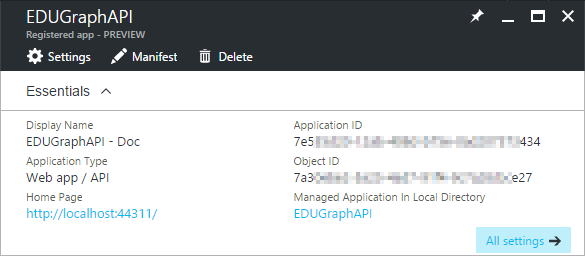
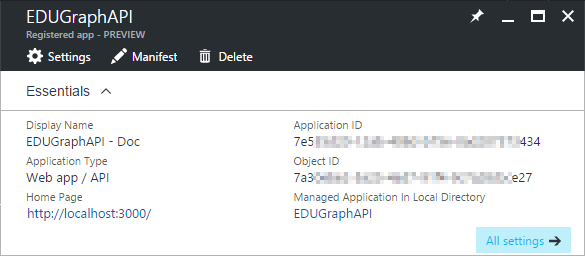
Update README

Changed region(s): [[0.0308, 0.8125, 0.2769, 0.875], [0.4923, 0.8125, 0.6462, 0.875]]

diff --git a/README.md b/README.md
@@ -84,7 +84,7 @@ Create a key to enable Bing Maps API features in the app:
 
 4. Input a **Name**, and select **Web app / API** as **Application Type**.
 
-   Input **Sign-on URL**: http://localhost:44311/
+   Input **Sign-on URL**: http://localhost:3000/
 
    ![](Images/aad-create-app-02.png)
 
@@ -129,6 +129,7 @@ You need to have some prerequisites installed:
 
 - The [Ruby](https://www.ruby-lang.org/en/downloads) language version 2.3 or newer.
 - The [RubyGems](https://rubygems.org/) packaging system, which is installed with Ruby by default. To learn more about RubyGems, please read the [RubyGems Guides](http://guides.rubygems.org/).
+- The [rails](http://rubyonrails.org/) version 5.0.0 or above.
 - A working installation of the [SQLite3 Database](https://www.sqlite.org/).
 
 Run the **EDUGraphAPI**:
@@ -144,10 +145,10 @@ Run the **EDUGraphAPI**:
 
    ```shell
    bundle install
-   rails s -p 44311
+   rails s
    ```
 
-3. Press **F5**. 
+3. Open http://localhost:3000 in a browser.
 
 ## Deploy the sample to Azure
 
@@ -247,7 +248,7 @@ Run the **EDUGraphAPI**:
 
    ![](Images/aad-add-reply-url.png)
 
-   > Note: to debug the sample locally, make sure that http://localhost:44311/ is in the reply URLs.
+   > Note: to debug the sample locally, make sure that http://localhost:3000/ is in the reply URLs.
 
 4. Click **SAVE**.
 
@@ -259,22 +260,9 @@ Run the **EDUGraphAPI**:
 
 ![](Images/solution-component-diagram.png)
 
-The top layer of the solution contains the two parts of the EDUGraphAPI.Web project:
-
-* The server side Node.js app.
-* The client side Angular 2 app.
-
-The bottom layers contain the three data sources.
-
-* The EDUGraphAPI database.
-* Education data exposed by REST APIs.
-* Azure AD data exposed by Graph APIs.
-
 **Authentication Mechanisms**
 
-TODO: [https://github.com/omniauth/omniauth](https://github.com/omniauth/omniauth)
-
-
+[OmniAuth OAuth2](https://github.com/intridea/omniauth-oauth2) and a custom Azure OAuth2 strategy `lib/omniauth/azure_oauth2.rb` are used to enable O365 users login.
 
 **Data Access**
 
@@ -286,13 +274,22 @@ Below are the main tables used in this sample:
 
 | Table                          | Description                              |
 | ------------------------------ | ---------------------------------------- |
-| accounts                       | Contains the user's information: name, email, hashed password...<br>*o365_user_id* and *o365_email* are used to connect the local user with an O365 user. |
+| users                          | Contains the user's information: name, email, hashed password...<br>*o365_user_id* and *o365_email* are used to connect the local user with an O365 user. |
 | user_roles                     | Contains users' role. Three roles are used in this sample: admin, teacher, and student. |
 | organizations                  | A row in this table represents a tenant in AAD.<br>*IsAdminConsented* column records than if the tenant consented by an administrator. |
-| token                          | Contains the users' access/refresh tokens. |
+| token_caches                   | Contains the users' access/refresh tokens. |
 | classroom_seating_arrangements | Contains the classroom seating arrangements. |
 
 You may change the database settings in the **/config/database.yml** file. SQLite is used for the development environment.
+
+**Libs**
+
+In the **lib** folder, there are 2 libs.
+
+| Lib       | Description                              |
+| --------- | ---------------------------------------- |
+| education | Contains EducationService and several model classes. Theyencapsulate education REST APIs. |
+| omniauth  | Contains AzureOauth2 class which implemented Azure OAuth2 strategy for OmniAuth |
 
 **Controllers**
 
@@ -300,24 +297,37 @@ In the **app/controllers** folder, there are 6 controllers:
 
 | Controller            | Description                              |
 | --------------------- | ---------------------------------------- |
-| ApplicationController | The base controller of the other controllers |
-| AccountController     | Contains actions for user to register, login and logout |
-| AdminController       | Contains administrative actions like consent tenant, manage linked accounts. |
+| ApplicationController | The base controller of the other controllers. |
+| AccountController     | Contains actions for user to register, login and logout. |
 | LinkController        | Contains actions used for users to link accounts. |
-| SchoolsController     | Contains actions used to show education data, link schools, classes and class details. |
-|                       |                                          |
+| ManageController      | Contains the about me action.            |
+| AdminController       | Contains administrative actions like consent tenant, manage linked accounts. |
+| SchoolsController     | Contains actions used to show schools data. |
+| ClassesController     | Contains actions used to show classes data. |
 
 **Services**
 
-All the serveries are in the **app:/services** folder: 
+Service classes are in the **app/services** folder. Below are the main services used in the sample:
 
-| Service           | Description                              |
-| ----------------- | ---------------------------------------- |
-| MSGraphClient     | Contains methods used to access MS Graph APIs |
-| SchoolService     | Contains two methods: get/update seating arrangements |
-| TenantService     | Contains methods that operate tenants in the database |
-| TokenCacheService | Contains method used to get and update cache from the database |
-| UserService       | Contains method used to manipulate users in the database |
+| Service             | Description                              |
+| ------------------- | ---------------------------------------- |
+| MSGraphService      | Contains methods used to access MS Graph APIs |
+| AADGraphService     | Contains methods used to access AAD Graph APIs |
+| TokenCacheService   | Contains method used to get and update cache from the database |
+| UserService         | Contains method used to manipulate users in the database |
+| OrganizationService | Contains methods that operate organizations in the database |
+| LinkService         | Contains methods used to link user accounts |
+
+**Action filters**
+
+In the ApplicationController, several action filters were created and used by itself and other controllers.
+
+| Name                       | Type          | Description                              |
+| -------------------------- | ------------- | ---------------------------------------- |
+| require_login              | before_action | Redirects user to login page if the user is not logged in. |
+| admin_only                 | before_action | Only allow admin users to access the protected actions. |
+| linked_users_only          | before_action | Only allow linked users to access the protected actions. |
+| handle_refresh_token_error | around_action | Rescue RefreshTokenError raised by TokenService when refresh token is missing or expired. It will redirect the user to page which explains the reason and instructs the user to re-login. |
 
 **Multi-tenant app**
 
@@ -335,47 +345,50 @@ For more information, see [Build a multi-tenant SaaS web application using Azure
 
 The [Office 365 Education APIs](https://msdn.microsoft.com/office/office365/api/school-rest-operations) return data from any Office 365 tenant which has been synced to the cloud by Microsoft School Data Sync. The APIs provide information about schools, sections, teachers, students, and rosters. The Schools REST API provides access to school entities in Office 365 for Education tenants.
 
-In this sample, the **Microsoft.Education** Class Library project encapsulates the Office 365 Education API. 
+In this sample, the **lib/education** lib encapsulates the Office 365 Education API. 
 
-The **EducationServiceClient** is the core class of the library. It is used to easily get education data.
+The **EducationService** is the core class of the library. It is used to easily get education data.
 
 **Get schools**
 
 ~~~typescript
-getSchools(): Observable<any[]> {
-    return this.dataService.getArray<any>(this.urlBase + "/administrativeUnits?api-version=beta");
-}
+def get_all_schools
+  get_objects(Education::School, 'administrativeUnits?api-version=beta')
+end
 ~~~
 
 ~~~typescript
-getSchoolById(id: string): Observable<any> {
-    return this.dataService.getObject(this.urlBase + '/administrativeUnits/' + id + '?api-version=beta');
-}
+def get_school(object_id)
+  get_object(Education::School, "administrativeUnits/#{object_id}?api-version=beta")
+end
 ~~~
 
 **Get classes**
 
 ~~~typescript
-getClasses(schoolId: string, nextLink: string): Observable<PagedCollection<any>> {
-    let url: string = this.urlBase + "/groups?api-version=beta&$top=12&$filter=extension_fe2174665583431c953114ff7268b7b3_Education_ObjectType%20eq%20'Section'%20and%20extension_fe2174665583431c953114ff7268b7b3_Education_SyncSource_SchoolId%20eq%20'" + schoolId + "'" +
-        (nextLink ? "&" + GraphHelper.getSkipToken(nextLink) : '');
-    return this.dataService.getPagedCollection<any>(url);
-}
+def get_sections(school_id, skip_token = nil, top = 12)
+  get_paged_objects(Education::Section, 'groups?api-version=1.5', {
+    '$top': 12,
+    '$filter': "extension_fe2174665583431c953114ff7268b7b3_Education_ObjectType eq 'Section' and extension_fe2174665583431c953114ff7268b7b3_Education_SyncSource_SchoolId eq '#{school_id}'",
+    '$skiptoken': skip_token
+  })
+end
 ~~~
 
 ```typescript
-getClassById(classId: string): Observable<any> {
-    return this.dataService.getObject<any>(this.urlBase + "/groups/" + classId + "?api-version=beta&$expand=members");
-}
+def get_section(section_id)
+  get_object(Education::Section, "groups/#{section_id}?api-version=1.5")
+end
 ```
 **Get users**
 
 ```typescript
-getUsers(schoolId: string, nextLink: string): Observable<PagedCollection<any>> {
-    var url = this.urlBase + "/administrativeUnits/" + schoolId + "/members?api-version=beta&$top=12" +
-        (nextLink ? "&" + GraphHelper.getSkipToken(nextLink) : '');
-    return this.dataService.getPagedCollection<any>(url);
-}
+def get_members(school_id, skip_token = nil, top = 12)
+  get_paged_objects(Education::User, "administrativeUnits/#{school_id}/members?api-version=beta", {
+    '$top': top,
+    '$skiptoken': skip_token
+  })
+end
 ```
 Below are some screenshots of the sample app that show the education data.
 
@@ -386,14 +399,6 @@ Below are some screenshots of the sample app that show the education data.
 ![](Images/edu-classes.png)
 
 ![](Images/edu-class.png)
-
-In **/app/services/dataService.ts**, three generic methods simplify the invoking of REST APIs.
-
-* **getObject<T>**: sends a http GET request to the target endpoint, and deserializes the JSON response string to T, and return the result object.  
-* **getPagedCollection<T>**:  sends a http GET request to the target endpoint, and deserializes the JSON response string to PagedCollection<T>, and return the result object. 
-* **getArray<T>**: sends a http GET request to the target endpoint, and deserializes the JSON response string to array, and return the array.
-
-For http GET request sent by the 3 methods above, an access token is included in the bearer authentication header.
 
 ### Authentication Flows
 
@@ -436,20 +441,15 @@ There are two distinct Graph APIs used in this sample:
 
 > Therefore, please use the new Microsoft Graph API as much as possible and minimize how much you use the Azure AD Graph API.
 
-Below is a piece of code shows how to get "me" from the Microsoft Graph API.
+Below is a piece of code shows how to get user photo from the Microsoft Graph API.
 
 ```typescript
-public getMe(): Promise<any> {
-    return new Promise((resolve, reject) => {
-        request
-            .get(Constants.MSGraphResource + "/v1.0/me/?$select=id,givenName,surname,userPrincipalName,assignedLicenses")
-            .set('Authorization', 'Bearer ' + this.accessToken)
-            .end((err, res) => {
-                if (err) { return reject(err) }
-                resolve(res.body);
-            })
-    })
-}
+def get_user_photo(o365_user_id)
+  url = @base_url + "/users/#{o365_user_id}/photo/$value"
+  HTTParty.get(url, headers: {
+     "Authorization" => "Bearer #{@access_token}"
+  })
+end
 ```
 
 Note that in the AAD Application settings, permissions for each Graph API are configured separately:
